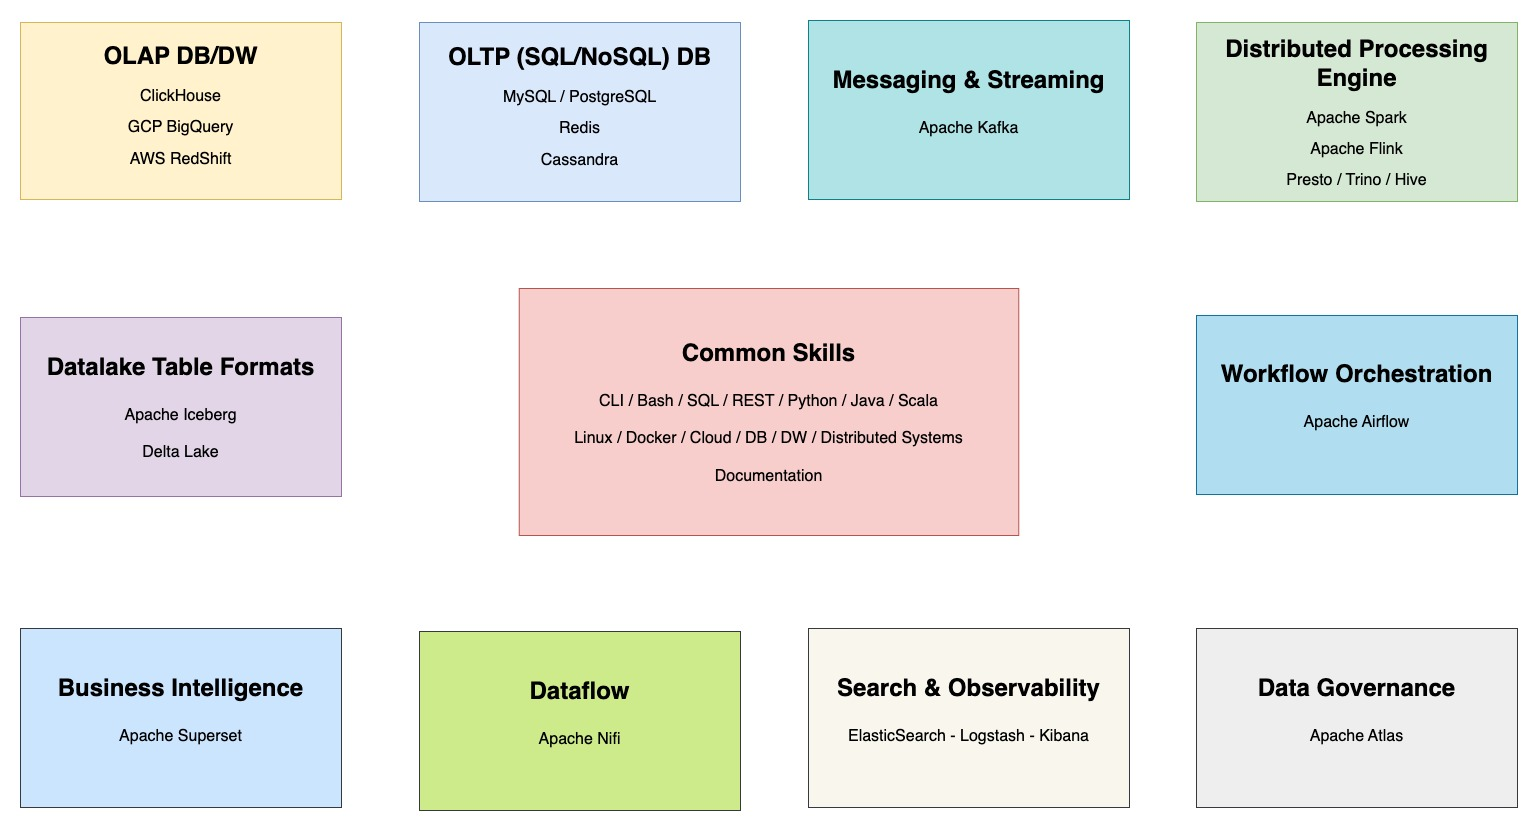
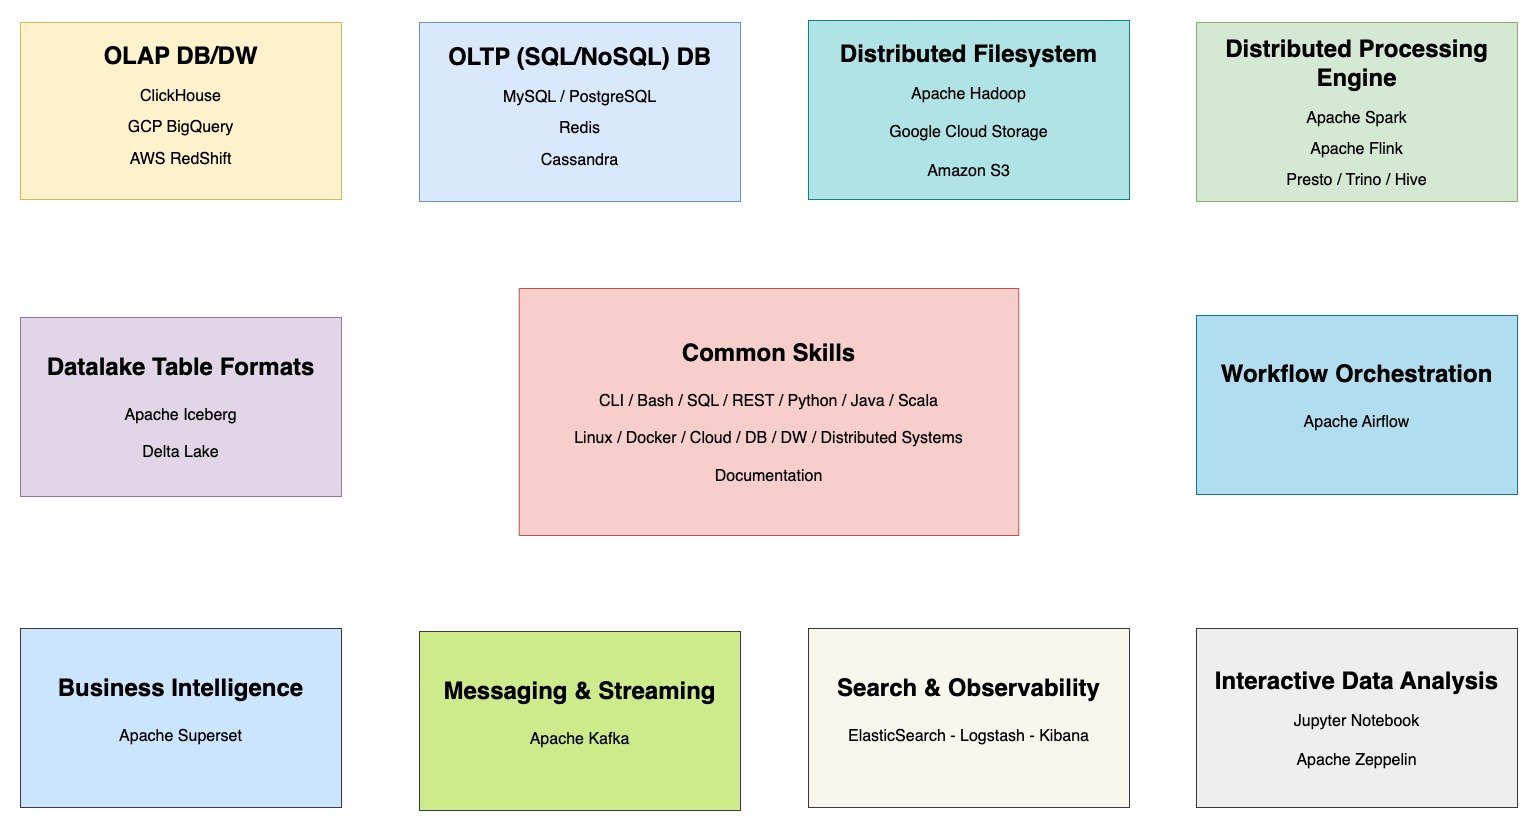
update content

diff --git a/vid13/big_data_tools.md b/vid13/big_data_tools.md
@@ -19,11 +19,11 @@
 | ----------------------------- | ------------------------------------------------------------------------------------------------------------------------------------------------------------------------------------------------------------------------------------------------------------------------- |
 | OLAP DB/DW                    | [Clickhouse](https://clickhouse.com/docs), [GCP BigQuery](https://cloud.google.com/bigquery?hl=en), [AWS RedShift](https://aws.amazon.com/redshift/)                                                                                                                      |
 | OLTP (SQL/NoSQL) DB           | [MySQL](https://dev.mysql.com/doc/) / [PostgreSQL](https://www.postgresql.org/docs/), [Redis](https://redis.io/docs/latest/), [Cassandra](https://cassandra.apache.org/doc/latest/)                                                                                       |
-| Messaging & Streaming         | [Apache Kafka](https://kafka.apache.org/documentation/)                                                                                                                                                                                                                   |
+| Distributed Filesystem        | [Apache Hadoop](https://apache.github.io/hadoop/), [Google Cloud Storage](https://cloud.google.com/storage/docs), [Amazon S3](https://docs.aws.amazon.com/s3/?nc2=h_ql_doc_s3)                                                                                            |
 | Distributed Processing Engine | [Apache Spark](https://spark.apache.org/docs/latest/), [Apache Flink](https://nightlies.apache.org/flink/flink-docs-stable/), [Presto](https://prestodb.io/docs/current/) / [Trino](https://trino.io/docs/current/) / [Apache Hive](https://hive.apache.org/docs/latest/) |
 | Datalake Table Formats        | [Apache Iceberg](https://iceberg.apache.org/docs/nightly/), [Delta Lake](https://docs.delta.io/latest/index.html)                                                                                                                                                         |
 | Workflow Orchestration        | [Apache Airflow](https://airflow.apache.org/docs/apache-airflow/stable/index.html)                                                                                                                                                                                        |
 | Business Intelligence         | [Apache Superset](https://superset.apache.org/docs/intro)                                                                                                                                                                                                                 |
-| Dataflow                      | [Apache Nifi](https://nifi.apache.org/components/)                                                                                                                                                                                                                        |
+| Messaging & Streaming         | [Apache Kafka](https://kafka.apache.org/documentation/)                                                                                                                                                                                                                   |
 | Search & Observability        | [ElasticSearch - Logstash - Kibana](https://www.elastic.co/docs)                                                                                                                                                                                                          |
-| Data Governance               | [Apache Atlas](https://atlas.apache.org/#/)                                                                                                                                                                                                                               |
+| Interactive Data Analysis     | [Jupyter Notebook](https://docs.jupyter.org/en/latest/), [Apache Zeppelin](https://zeppelin.apache.org/)                                                                                                                                                                  |
